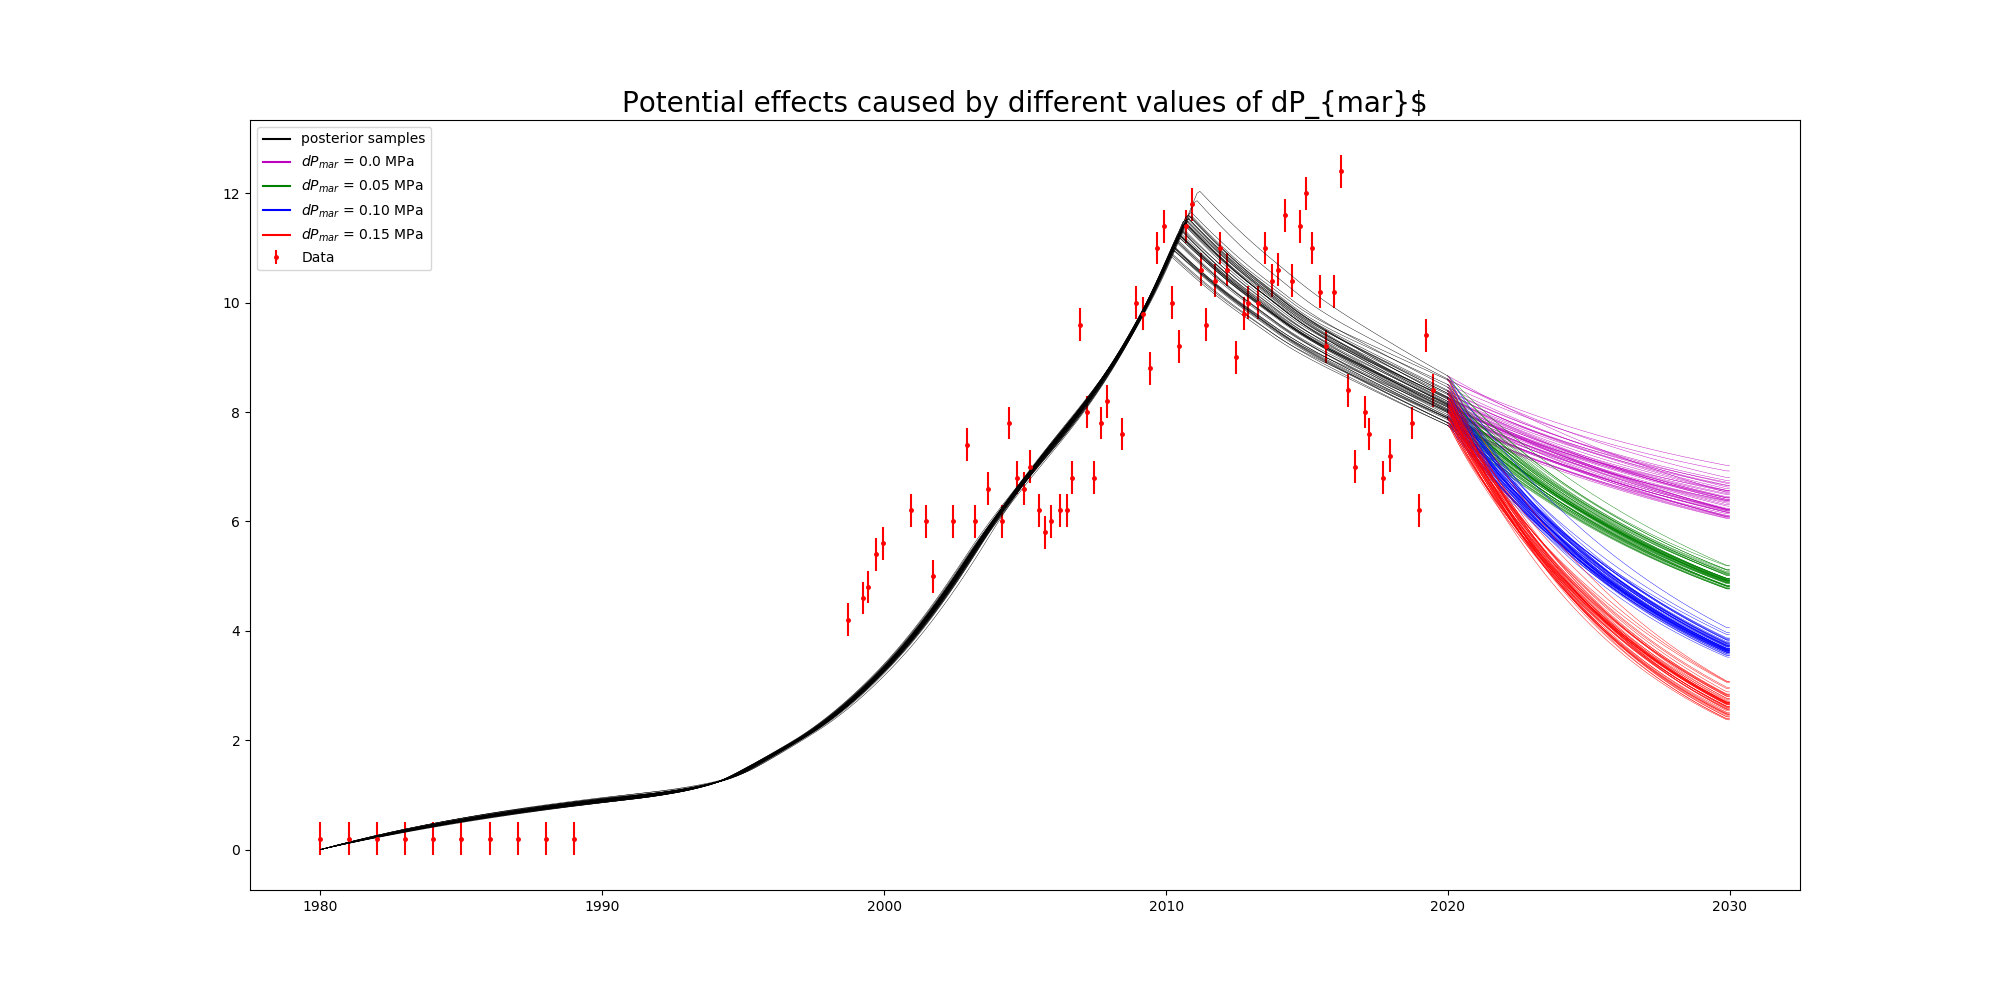
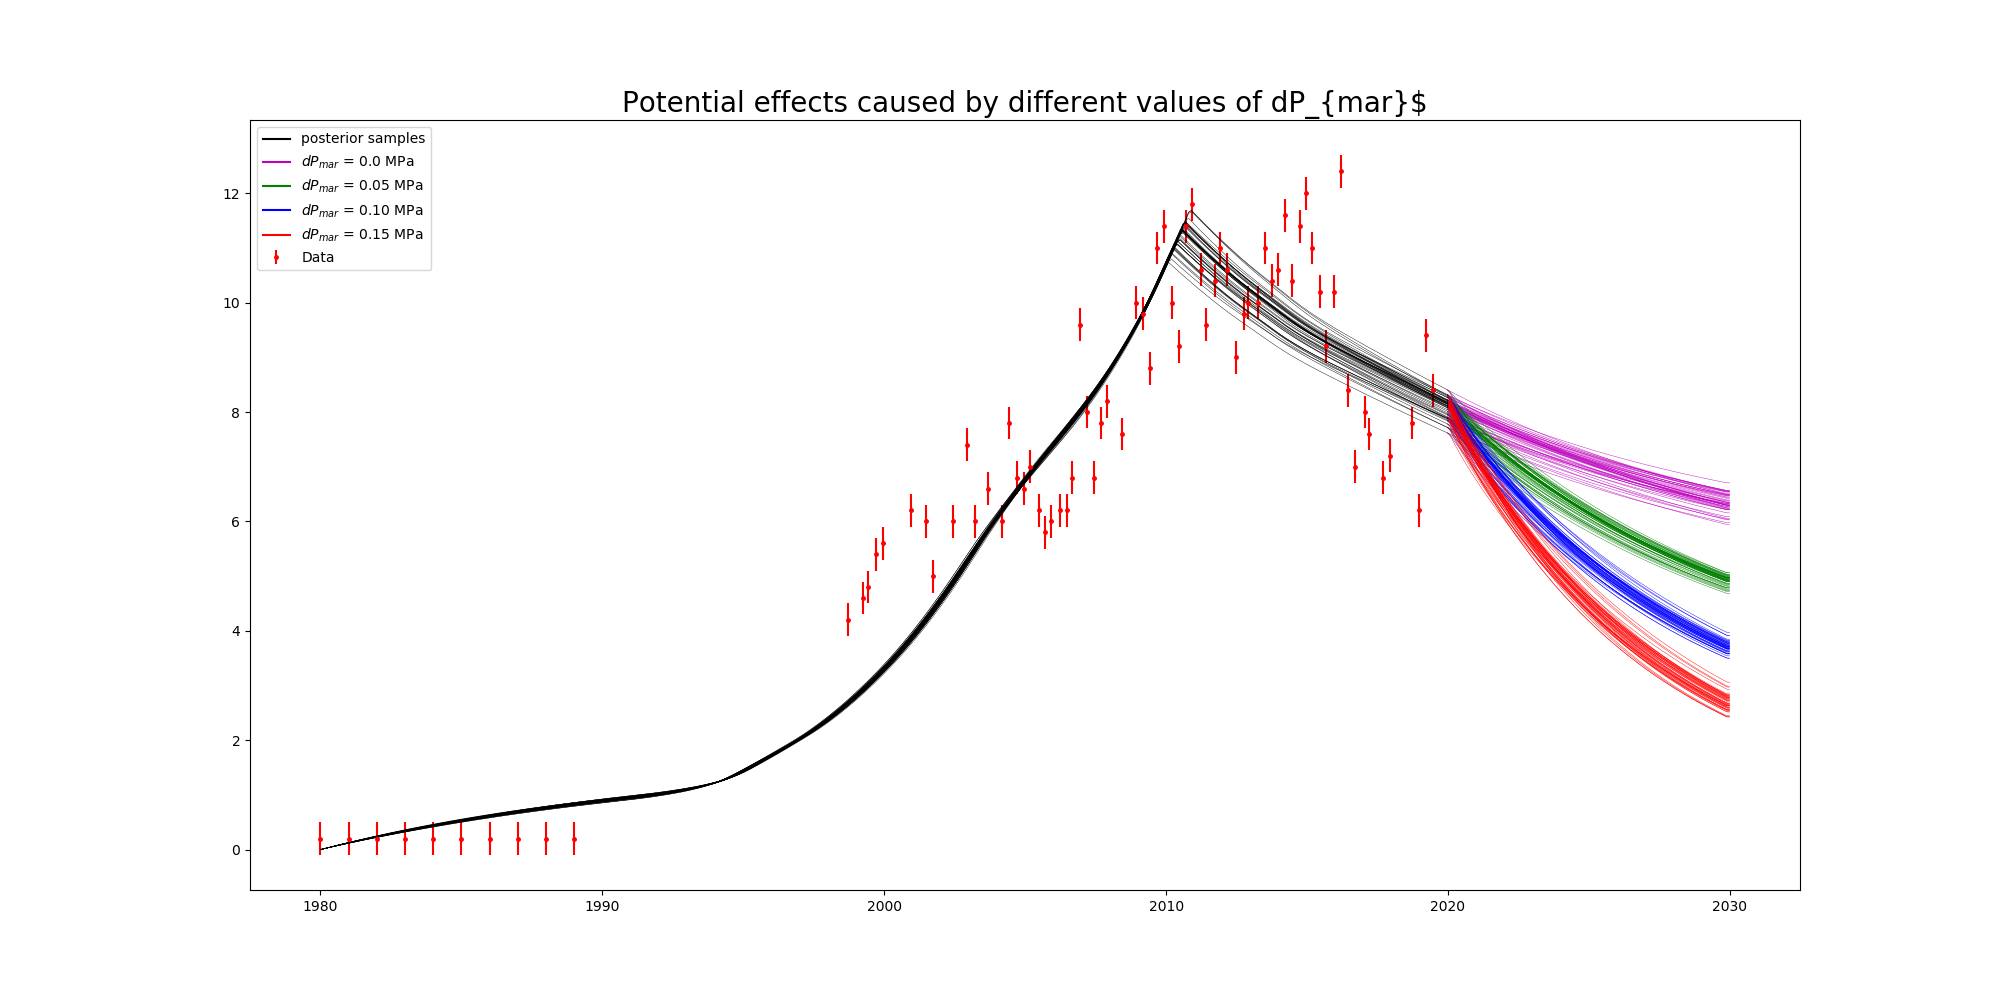
changed improved model time range

Changed region(s): [[0.589, 0.217, 0.868, 0.713]]

diff --git a/plotting_functions.py b/plotting_functions.py
@@ -63,7 +63,7 @@ def initial_model():
     ax.plot(t, C, 'b-', label="Model") # plotting model
     plt.title("Initial Model", fontsize=20)
     ax.legend()
-    
+
     fig.savefig('Plots'+ os.sep +'initial_model.png', dpi = 200)
     plt.close(fig)
 
@@ -76,7 +76,7 @@ def improved_model():
     Saves the plot in file 'improved_model.png'
     '''
     p = posterior_pars()[1] # find improved parameters
-    t = np.arange(1980,2030,step=0.05)
+    t = np.arange(1980,2020,step=0.05)
     C = LPM_Model(t,*p) 
 
     # plotting commands
@@ -87,7 +87,7 @@ def improved_model():
     plt.title("Improved Model", fontsize=20)
     ax.legend()
 
-    #plt.show()
+  
     fig.savefig('Plots'+ os.sep +'improved_model.png', dpi = 200)
     plt.close(fig)
 
@@ -188,8 +188,7 @@ def what_ifs_uncertainty():
     v=0.3
     fig = plt.figure(figsize=(20,10))
     ax = fig.add_subplot(111)
-    #ax.plot(t0,c0, 'ro', label="data", markersize=2.5)
-
+    #ax.plot(t0x,c0, 'ro', label="data", markersize=2.5)
 
     for pi in range(0,ps.shape[0]):
         ax.plot(t_forecast, LPM_Model_forecast(t_forecast, ps[pi][0], ps[pi][1], ps[pi][2], ps[pi][3],0), 'm-', lw=0.3)
@@ -289,6 +288,7 @@ def misfit_plot(old):
     else:
         file = 'misfit_plot_new_model'
 
+    #plt.show()
     f.savefig('Plots'+ os.sep + file, dpi = 200)
     plt.close(f)
 
